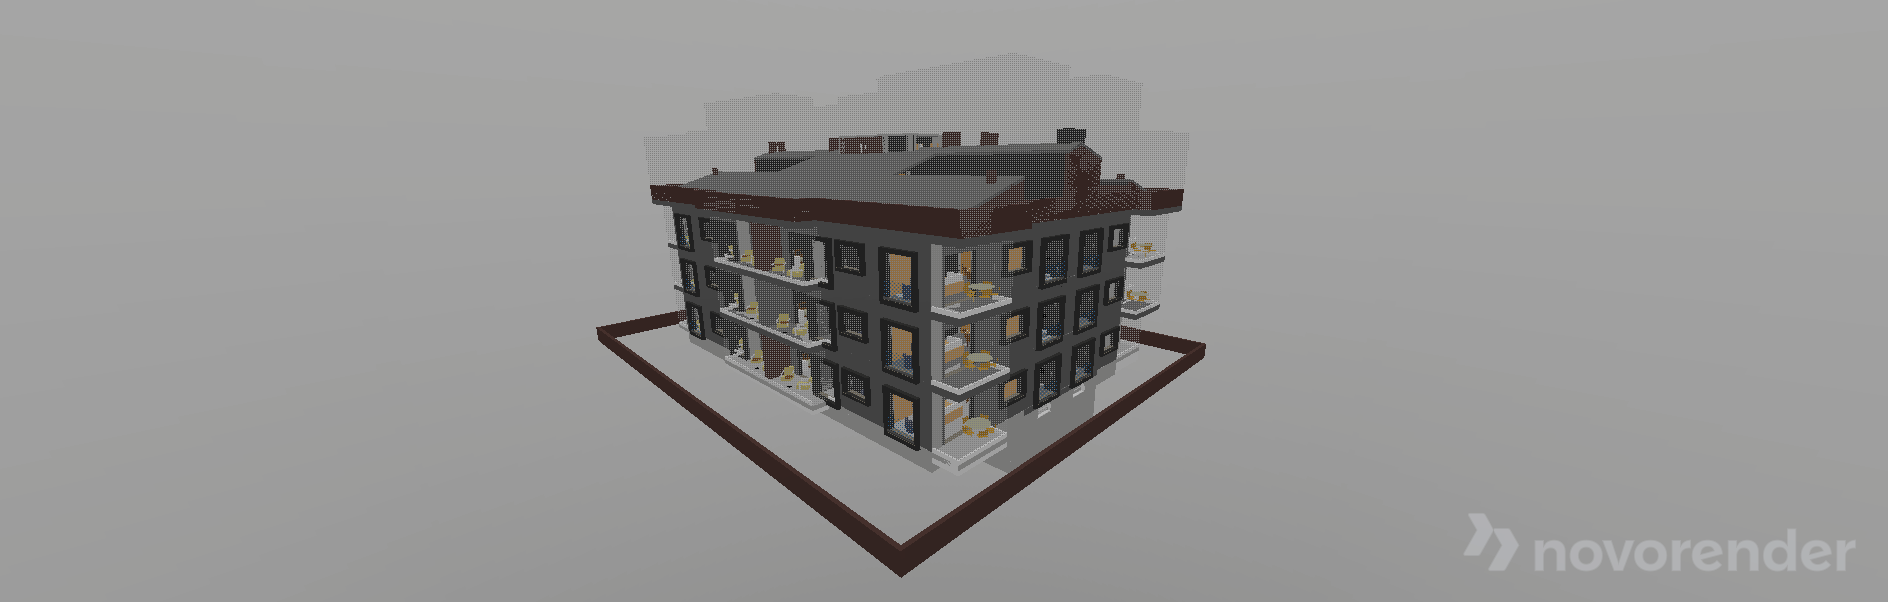
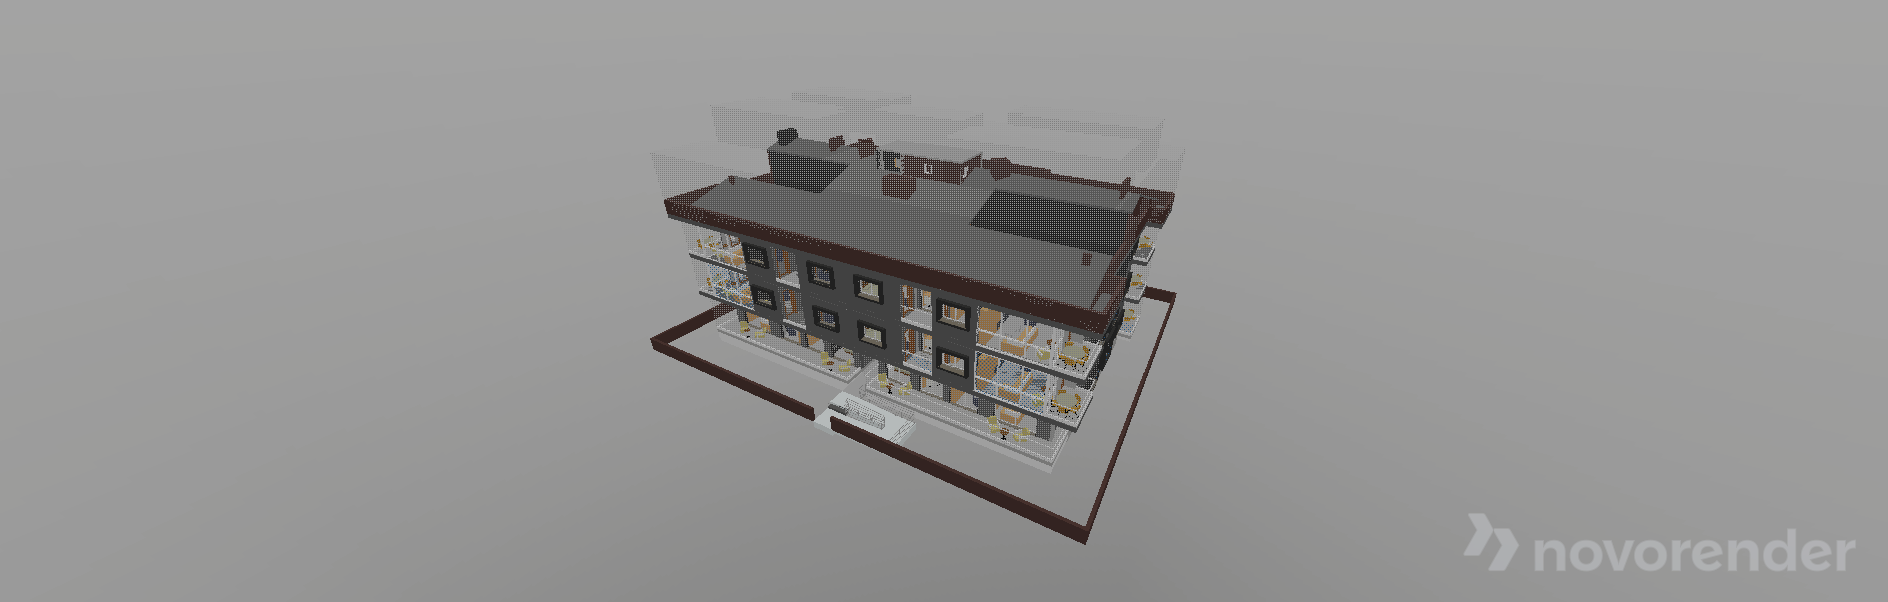
fix(v2): scene loading demos

Changed region(s): [[0.3125, 0.0897, 0.6562, 0.9568]]

diff --git a/v2/demo-snippets/guides/loading_scenes/private_scene.ts b/v2/demo-snippets/guides/loading_scenes/private_scene.ts
@@ -1,6 +1,5 @@
-import * as dataJsApi from "@novorender/data-js-api";
+import { createAPI, type SceneData } from "@novorender/data-js-api";
 import { type View } from "@novorender/api";
-import { type ReadonlyVec3, quat } from "gl-matrix";
 
 const DATA_API_SERVICE_URL = "https://data.novorender.com/api";
 export async function main(view: View): Promise<void> {
@@ -8,7 +7,7 @@ export async function main(view: View): Promise<void> {
   const accessToken = await login();
   // Initialize the data API with the Novorender data server service
   // and a callback which returns the auth header with the access token
-  const dataApi = dataJsApi.createAPI({
+  const dataApi = createAPI({
     serviceUrl: DATA_API_SERVICE_URL,
     authHeader: async () => ({
       header: "Authorization",
@@ -21,13 +20,11 @@ export async function main(view: View): Promise<void> {
     // Condos scene ID, but can be changed to any public scene ID
     const sceneData = await dataApi.loadScene("7a0a302fe9b24ddeb3c496fb36e932b0");
     // Destructure relevant properties into variables
-    const { url, camera } = sceneData as dataJsApi.SceneData;
-    // Destructure relevant camera properties
-    const { position, fieldOfView: fov } = camera as any;
+    const { url } = sceneData as SceneData;
     // load the scene using URL gotten from `sceneData`
-    await view.loadSceneFromURL(new URL(url));
-    // Assign a camera controller
-    await view.switchCameraController(camera?.kind as any, { position: flip(position as ReadonlyVec3), fov, rotation: flipGLtoCadQuat([1, 0, 0, 0]) });
+    const config = await view.loadSceneFromURL(new URL(url));
+    const { center, radius } = config.boundingSphere;
+    view.activeController.autoFit(center, radius);
   } catch (error) {
     console.log("Error while loading scene from URL ", error);
   }
@@ -54,31 +51,3 @@ async function login(): Promise<string> {
 
   return res.token;
 }
-
-/**
- *  helper function to flip the coordinate system
- */
-function flip(v: ReadonlyVec3): ReadonlyVec3 {
-  const flipped: [number, number, number] = [v[0], -v[2], v[1]];
-  return flipped;
-}
-
-/**
- *  helper function to flip the coordinate system
- */
-function flipGLtoCadQuat(b: quat) {
-  let ax = 0.7071067811865475,
-    aw = 0.7071067811865475;
-  let bx = b[0],
-    by = b[1],
-    bz = b[2],
-    bw = b[3];
-
-  // prettier-ignore
-  return quat.fromValues(
-        ax * bw + aw * bx,
-        aw * by + - ax * bz,
-        aw * bz + ax * by,
-        aw * bw - ax * bx);
-}
-// HiddenRangeEnded

diff --git a/v2/demo-snippets/guides/loading_scenes/public_scene.ts b/v2/demo-snippets/guides/loading_scenes/public_scene.ts
@@ -1,12 +1,10 @@
-import * as dataJsApi from "@novorender/data-js-api";
+import { createAPI, type SceneData } from "@novorender/data-js-api";
 import { type View } from "@novorender/api";
-import { type ReadonlyVec3 } from "gl-matrix";
 
-const DATA_API_SERVICE_URL = "https://data.novorender.com/api";
 export async function main(view: View): Promise<void> {
   // Initialize the data API with the Novorender data server service
-  const dataApi = dataJsApi.createAPI({
-    serviceUrl: DATA_API_SERVICE_URL,
+  const dataApi = createAPI({
+    serviceUrl: "https://data.novorender.com/api",
   });
 
   try {
@@ -14,23 +12,12 @@ export async function main(view: View): Promise<void> {
     // Condos scene ID, but can be changed to any public scene ID
     const sceneData = await dataApi.loadScene("95a89d20dd084d9486e383e131242c4c");
     // Destructure relevant properties into variables
-    const { url, camera } = sceneData as dataJsApi.SceneData;
-    // Destructure relevant camera properties
-    const { position, fieldOfView: fov } = camera as any;
+    const { url } = sceneData as SceneData;
     // load the scene using URL gotten from `sceneData`
-    await view.loadSceneFromURL(new URL(url));
-    // Assign a camera controller
-    await view.switchCameraController(camera?.kind as any, { position: flip(position as ReadonlyVec3), fov });
+    const config = await view.loadSceneFromURL(new URL(url));
+    const { center, radius } = config.boundingSphere;
+    view.activeController.autoFit(center, radius);
   } catch (error) {
     console.log("Error while loading scene from URL ", error);
   }
 }
-// HiddenRangeStarted
-/**
- *  helper function to flip the coordinate system
- */
-function flip(v: ReadonlyVec3): ReadonlyVec3 {
-  const flipped: [number, number, number] = [v[0], -v[2], v[1]];
-  return flipped;
-}
-// HiddenRangeEnded
